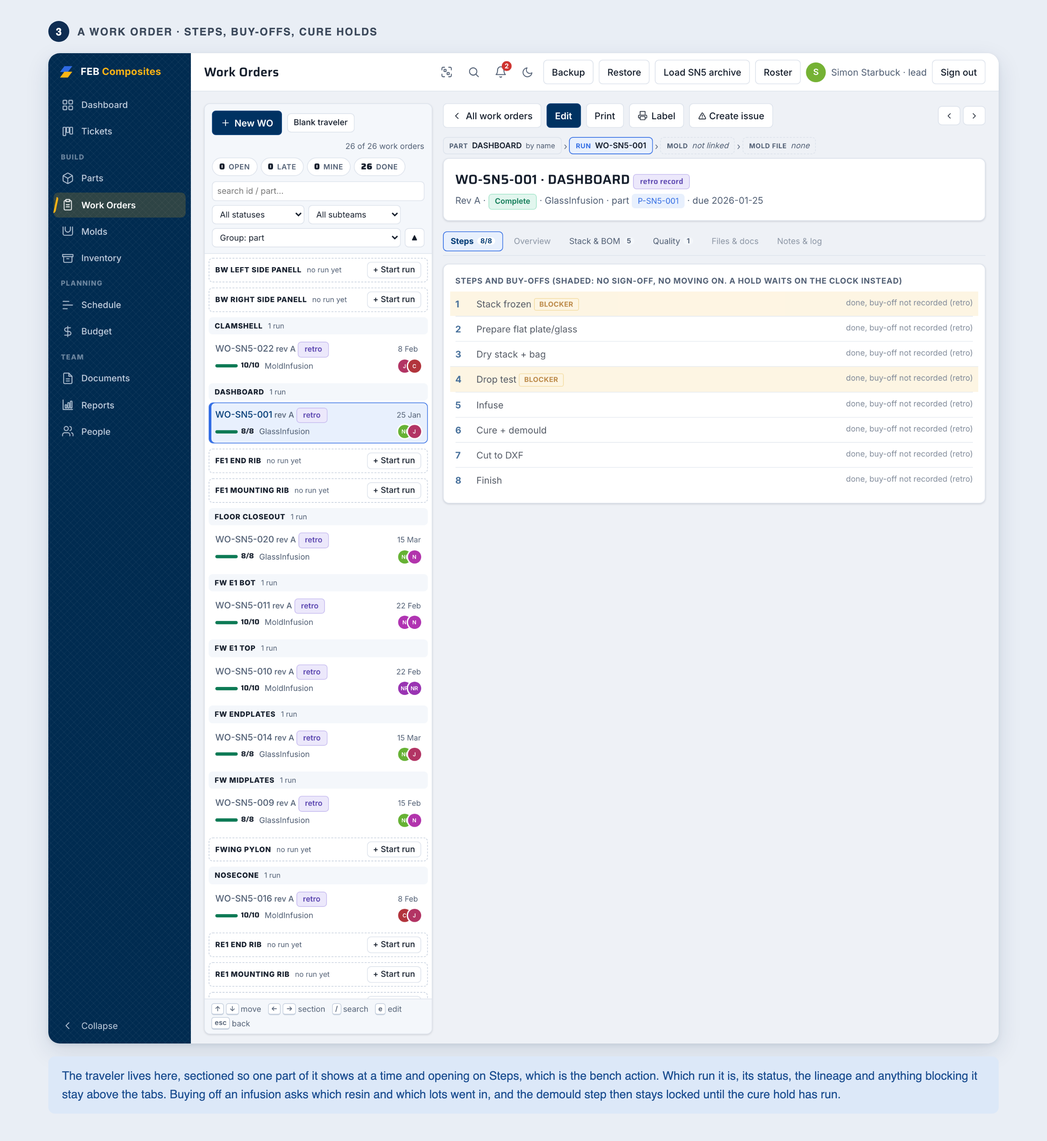
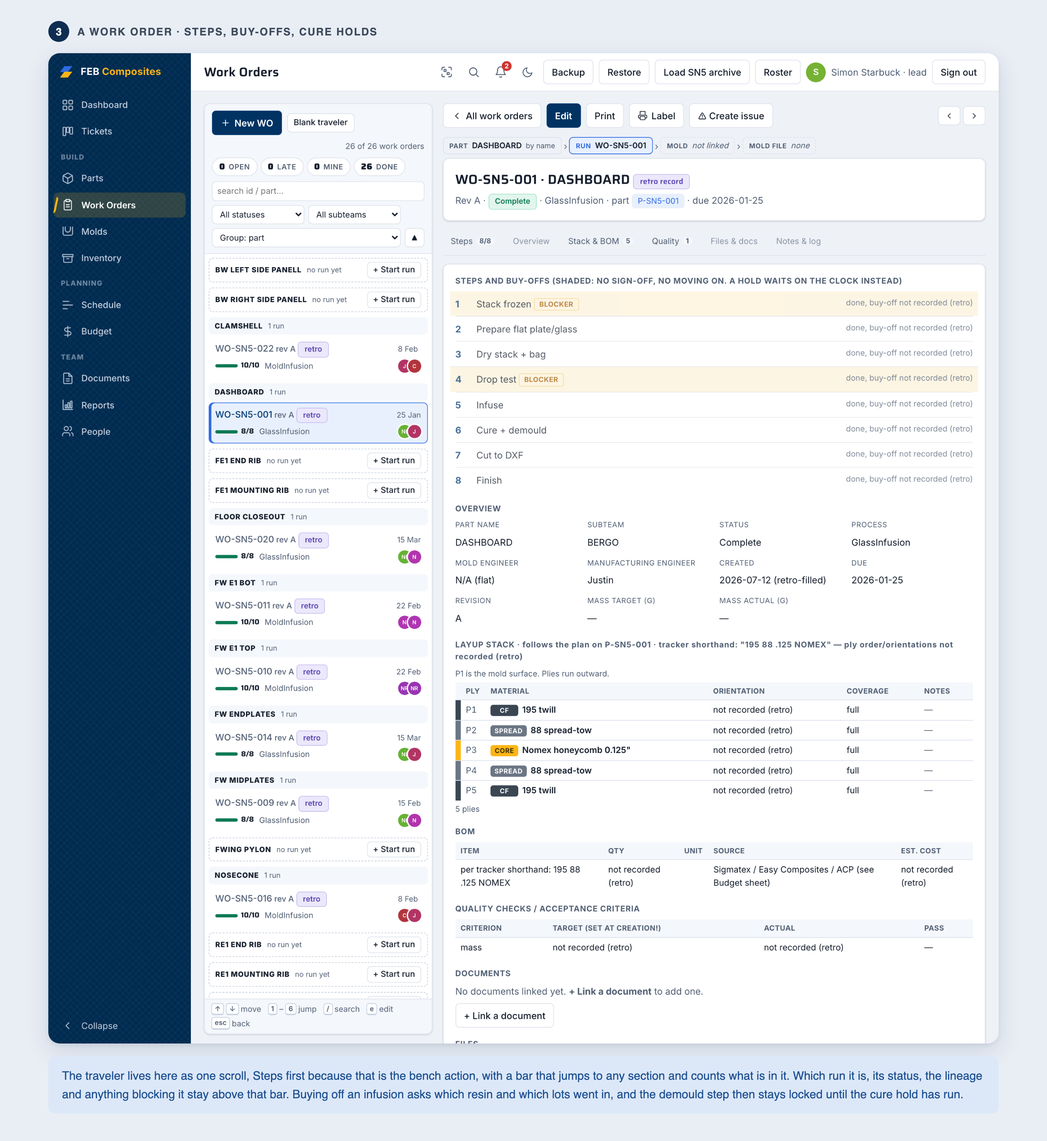
Put the whole work order back in one scroll; the section bar now jumps
Simon asked for the sectioned pane to go back to being scrollable, "similar
to how it was before". The reason holds up: on a traveler you read across
sections constantly, the layup stack while signing "Stack frozen", the BOM
while checking what actually went in, and a tab makes you leave one to see
the other.

So renderWODetail() renders every WO_SECTIONS body into one card, in order,
Steps first because that is still the bench action. `.secnav` survives as a
JUMP bar rather than a switch, keeping the one thing the tab attempt was
genuinely better at: a count per section and a dot when something in one
needs attention, both readable without going there.

woSec()/setWOSec() and view.woSec are gone, along with the ←/→ section
stepping (with one scroll there is no "current section" to step from). 1-6
now scroll to a section. The keyhint says so.

The bar is buttons calling woJump(), NOT <a href="#wo-stack">. The app keeps
a deep link in the URL hash (syncUrl writes #/WO-SN6-004) and an anchor
overwrites it, so the address bar would stop naming the record you are
reading and a copied link would land on a section instead of the run. The
old jumpbar used anchors and did exactly that. scroll-margin-top on
`#main [id^="wo-"]` already existed and keeps the heading clear of the
topbar and this bar.

ONE REAL BUG THIS EXPOSED

Rendering every section at once made the page scroll sideways at 1440
(document 1489px in a 1440px viewport), and the audit could name no
[…]

diff --git a/03 App/app/workorders.js b/03 App/app/workorders.js
@@ -632,7 +632,7 @@ function renderWOIndex() {
       <div class="plistfade" aria-hidden="true"></div>
     </div>
     <div class="keyhint no-print muted tny"><span><kbd>↑</kbd><kbd>↓</kbd> move</span>${
-      selectedWO() ? "<span><kbd>←</kbd><kbd>→</kbd> section</span>" : ""
+      selectedWO() ? "<span><kbd>1</kbd>–<kbd>6</kbd> jump</span>" : ""
     }<span><kbd>/</kbd> search</span><span><kbd>e</kbd> edit</span><span><kbd>esc</kbd> back</span></div>
   </aside>`;
 }
@@ -726,41 +726,51 @@ function fld(wo, label, key, type) {
    full-width page that was one very long scroll with an anchor jumpbar bolted on
    top; beside a rail it would be the same scroll in three quarters of the width.
 
-   So the pane is sectioned and exactly one section renders at a time. What sits
-   ABOVE them is what you must not be able to lose by being on the wrong tab:
-   which run this is, its status, where it sits in the chain, and anything
-   blocking it.
+   So the pane is ordered rather than paginated: the whole record is ONE scroll,
+   with Steps at the top because that is the bench action, and the bar above it
+   jumps you down to a section instead of swapping which one exists.
 
-   The sections are a table rather than six branches so the nav and the panel
-   cannot disagree about what exists — a tab that renders while its content does
-   not is invisible until somebody clicks it. */
+   This was briefly one-section-at-a-time, and Simon asked for the scroll back.
+   The reason is sound: on a traveler you read across sections constantly (the
+   stack while signing "Stack frozen", the BOM while checking what went in), and
+   a tab makes you leave one to see the other. What the bar keeps from that
+   attempt is the part worth keeping — a count per section, and a dot when
+   something in it needs attention, both visible without going there.
+
+   The sections are a table rather than six inline blocks so the jump bar and
+   the body cannot disagree about what exists or what order it is in. */
 const WO_SECTIONS = [
-  { id: "steps", label: "Steps",
+  { id: "steps", label: "Steps", anchor: "wo-steps",
     badge: w => { const p = woProgress(w); return p.total ? `${p.done}/${p.total}` : ""; },
     warn: w => { const f = woFlags(w); return !!(f.blocked || f.curing); },
     body: (w, E) => woSecSteps(w, E) },
-  { id: "overview", label: "Overview", badge: () => "", body: (w, E) => woSecOverview(w, E) },
-  { id: "stack", label: "Stack & BOM",
+  { id: "overview", label: "Overview", anchor: "wo-overview", badge: () => "", body: (w, E) => woSecOverview(w, E) },
+  { id: "stack", label: "Stack & BOM", anchor: "wo-stack",
     badge: w => String((w.layupStack || []).length || ""),
     body: (w, E) => woSecStack(w, E) },
-  { id: "quality", label: "Quality",
+  { id: "quality", label: "Quality", anchor: "wo-quality",
     badge: w => String((w.qualityChecks || []).length || ""),
     warn: w => (w.qualityChecks || []).some(q => q.pass === false) || undisposedIssuesForWO(w.id).length > 0,
     body: (w, E) => woSecQuality(w, E) },
-  { id: "files", label: "Files & docs",
+  { id: "files", label: "Files & docs", anchor: "wo-docs",
     badge: w => String(((w.docs || []).length + (w.files || []).length) || ""),
     body: (w, E) => woSecFiles(w, E) },
-  { id: "notes", label: "Notes & log",
+  { id: "notes", label: "Notes & log", anchor: "wo-log",
     badge: w => String((w.noteLog || []).length || ""),
     body: (w, E) => woSecNotes(w, E) },
 ];
-/* Validated on the way out, never read raw. render() does
-   `el.innerHTML = tab.render()` with no try/catch, so a view.woSec naming a
-   section that no longer exists would throw inside the render and leave #main
-   blank — the worst failure mode this architecture has. Falling back to Steps
-   costs nothing and cannot fail. */
-function woSec() { return WO_SECTIONS.some(s => s.id === view.woSec) ? view.woSec : "steps"; }
-function setWOSec(id) { view = { ...view, woSec: id }; render(); }
+/* Scroll, rather than an <a href="#wo-steps">. The app keeps a deep link in the
+   URL hash (syncUrl writes #/WO-SN6-004), and an anchor would overwrite it with
+   #wo-steps — so the address bar would stop naming the record you are reading
+   and a copied link would land on the tab instead of the run. The old jumpbar
+   did use anchors and did exactly that.
+
+   scroll-margin-top on #main [id^="wo-"] (index.html) is what keeps the heading
+   clear of the topbar and this bar. */
+function woJump(anchor) {
+  const el = document.getElementById(anchor);
+  if (el && el.scrollIntoView) el.scrollIntoView({ block: "start", behavior: "smooth" });
+}
 
 /* The part this run belongs to, for the header chip and for stackDrift().
    Deliberately the ORIGINAL loose lookup and not woPart()/partOf(): partOf
@@ -778,7 +788,6 @@ function renderWODetail() {
   // dangling reference here throws inside render() and blanks the page.
   if (!wo) { view.mode = "list"; return renderWOOverview(); }
   const E = view.edit;
-  const sec = WO_SECTIONS.find(s => s.id === woSec()) || WO_SECTIONS[0];
   const linkedPart = woDetailPart(wo);
   const undisposed = undisposedIssuesForWO(wo.id);
   const fl = woFlags(wo);
@@ -805,25 +814,24 @@ function renderWODetail() {
     <h2>${esc(wo.id)} · ${esc(wo.partName || "(unnamed)")} ${wo.retro ? '<span class="pill retro">retro record</span>' : ""}</h2>
     <div class="muted">Rev ${esc(wo.revision)} · <span class="pill ${esc(wo.status)}">${esc(wo.status)}</span> · ${esc(wo.processType || "")}${linkedPart ? " · part " + chip("parts", linkedPart.id, linkedPart.id) : ""}${wo.dueDate ? ` · due ${esc(wo.dueDate)}${isWoLate(wo) ? ' <span class="warn">late</span>' : ""}` : ""}${wo.updatedAt ? ` · last saved ${fmtWhen(wo.updatedAt)} by ${esc(wo.updatedBy || "?")}` : ""}</div>
     ${undisposed.length ? `<div class="gate blocked"><span class="gi">✕</span><div><b>Can't complete this work order</b> — ${undisposed.length} linked issue${undisposed.length > 1 ? "s" : ""} (${undisposed.map(i => chip("projects", i.id, i.id)).join(", ")}) isn't disposed yet. You don't have to resolve ${undisposed.length > 1 ? "them" : "it"} right now, but ${undisposed.length > 1 ? "they need" : "it needs"} a resolution method before this WO can close.</div></div>` : ""}
-    ${fl.blocked ? `<p class="gate blocked"><span class="gi">✕</span><span>Blocked by an unsigned blocker: <b>${esc(stripCS(fl.blocked.title))}</b>. <button class="link no-print" onclick="setWOSec('steps')">Go to steps</button></span></p>` : ""}
-    ${fl.curing ? `<p class="gate"><span class="gi">⚠</span><span>Curing until <b>${esc(fl.curing.readyAt)}</b>${fl.curing.resin ? ` · ${esc(fl.curing.resin.label)}` : ""}. <button class="link no-print" onclick="setWOSec('steps')">Go to steps</button></span></p>` : ""}
+    ${fl.blocked ? `<p class="gate blocked"><span class="gi">✕</span><span>Blocked by an unsigned blocker: <b>${esc(stripCS(fl.blocked.title))}</b>. <button class="link no-print" onclick="woJump('wo-steps')">Go to steps</button></span></p>` : ""}
+    ${fl.curing ? `<p class="gate"><span class="gi">⚠</span><span>Curing until <b>${esc(fl.curing.readyAt)}</b>${fl.curing.resin ? ` · ${esc(fl.curing.resin.label)}` : ""}. <button class="link no-print" onclick="woJump('wo-steps')">Go to steps</button></span></p>` : ""}
     ${E ? `<div class="editnote no-print">${icon("edit", 14)} Editing — every change saves as you make it.</div>` : ""}
   </div>
-  ${/* Replaces the anchor jumpbar. The <h3 id="wo-*"> anchors stay on the
-        headings inside each section: they cost nothing and keep any external
-        link working. */""}
-  <nav class="secnav no-print" role="tablist" aria-label="Work order sections">
+  ${/* A jump bar, not a switch: every section below is rendered, this scrolls
+        to one. Carries the count and the attention dot so you can see there are
+        five plies, or that a quality check failed, without going there. */""}
+  <nav class="secnav no-print" aria-label="Jump to a section of this work order">
     ${WO_SECTIONS.map((s, i) => {
-      const on = s.id === sec.id;
       const n = s.badge ? s.badge(wo) : "";
       const warn = s.warn && s.warn(wo);
-      return `<button type="button" class="secnav-btn ${on ? "on" : ""} ${n ? "" : "empty"} ${warn ? "warn" : ""}"
-        role="tab" id="wosec-${esc(s.id)}" aria-selected="${on}" title="${esc(s.label)} (${i + 1})"
-        onclick="setWOSec('${esc(s.id)}')">${esc(s.label)}${n ? `<span class="secnav-n">${esc(n)}</span>` : ""}${warn ? '<span class="secnav-dot" aria-hidden="true"></span>' : ""}</button>`;
+      return `<button type="button" class="secnav-btn ${n ? "" : "empty"} ${warn ? "warn" : ""}"
+        id="wosec-${esc(s.id)}" title="${esc(s.label)} (${i + 1})"
+        onclick="woJump('${esc(s.anchor)}')">${esc(s.label)}${n ? `<span class="secnav-n">${esc(n)}</span>` : ""}${warn ? '<span class="secnav-dot" aria-hidden="true"></span>' : ""}</button>`;
     }).join("")}
   </nav>
-  <div class="card wosec" id="wosec-panel" role="tabpanel" aria-labelledby="wosec-${esc(sec.id)}">
-    ${sec.body(wo, E)}
+  <div class="card wosec">
+    ${WO_SECTIONS.map(s => s.body(wo, E)).join("")}
   </div>
   </section>`;
 }
@@ -1528,20 +1536,14 @@ function woKeydown(e) {
     return "search";
   }
   if (k === "e" && view.mode === "detail") { view.edit = !view.edit; render(); return "edit"; }
-  /* Sections are ←/→ (and [ / ]) plus 1-6 to jump. Digits are free here in a
-     way they are not on Parts, which spends 1/2/3 advancing stages: a work
-     order has no stage enum to advance. Gated on an open record so they do not
-     swallow horizontal scrolling on the overview pane. */
-  if (view.mode === "detail" && (k === "ArrowLeft" || k === "ArrowRight" || k === "[" || k === "]")) {
-    if (e.preventDefault) e.preventDefault();
-    const d = (k === "ArrowRight" || k === "]") ? 1 : -1;
-    const i = WO_SECTIONS.findIndex(s => s.id === woSec());
-    setWOSec(WO_SECTIONS[Math.min(WO_SECTIONS.length - 1, Math.max(0, i + d))].id);
-    return "section";
-  }
+  /* 1-6 scroll to a section of the open record. Digits are free here in a way
+     they are not on Parts, which spends 1/2/3 advancing stages: a work order
+     has no stage enum to advance. There is no ←/→ any more, because with the
+     whole record in one scroll there is no "current section" for them to step
+     from — that was a switch, and this is a jump. */
   if (view.mode === "detail" && /^[1-6]$/.test(k) && WO_SECTIONS[+k - 1]) {
     if (e.preventDefault) e.preventDefault();
-    setWOSec(WO_SECTIONS[+k - 1].id);
+    woJump(WO_SECTIONS[+k - 1].anchor);
     return "section";
   }
   return null;

diff --git a/03 App/app/index.html b/03 App/app/index.html
@@ -389,7 +389,15 @@
 
   table.sub { width: 100%; border-collapse: collapse; margin: 4px 0; font-size: 13px; }
   table.sub th { text-align: left; background: var(--surface-2); padding: 5px 8px; font-size: 11px; color: var(--muted); text-transform: uppercase; letter-spacing: .03em; }
-  table.sub td { padding: 5px 8px; border-top: 1px solid var(--line); vertical-align: top; }
+  /* `overflow-wrap: anywhere` because a cell's contents decide the table's
+     minimum width, and these cells hold things with no break opportunity in
+     them: a bare 120-character Drive URL in a BOM source, an
+     underscore-joined CAD filename in a quality check's actual. Without it one
+     such string sets the min-content width of the whole table, which the work
+     order's pane then cannot shrink below, and the PAGE scrolls sideways —
+     measured at 1489px inside 1440px. It only affects strings that had no
+     other way to wrap. */
+  table.sub td { padding: 5px 8px; border-top: 1px solid var(--line); vertical-align: top; overflow-wrap: anywhere; }
   table.sub input, table.sub select { width: 100%; font: inherit; border: 1px solid var(--line); border-radius: 3px; padding: 3px 6px; }
 
   /* ---- projects board ----
@@ -1230,21 +1238,22 @@
   .pgrouphd.norows { border: 1px dashed var(--border-2); background: none; }
   .pgrouphd .pg-start { margin-left: auto; padding: 2px 8px; }
 
-  /* The section tabs. Geometry borrowed from .jumpbar (which Parts still uses),
-     but these are buttons with state rather than anchors: one section renders
-     at a time, so this is the only thing saying which. */
+  /* The section jump bar. Geometry borrowed from .jumpbar (which Parts still
+     uses), but these are buttons rather than anchors, because an <a href="#…">
+     would overwrite the deep link this app keeps in the URL hash. They scroll;
+     they do not switch. What they add over the old jumpbar is a count per
+     section and a dot when something in one needs attention. */
   .secnav { display: flex; gap: 4px; flex-wrap: wrap; align-items: center; margin: 0 0 12px;
     position: sticky; top: var(--topbar-h); z-index: 4; background: var(--canvas); padding: 6px 0; border-bottom: 1px solid var(--line); }
   .secnav-btn { display: inline-flex; align-items: center; gap: 5px; font: inherit; font-size: 12.5px; line-height: 1.1;
     min-height: 30px; padding: 5px 11px; border-radius: var(--radius); border: 1px solid transparent; background: none;
     color: var(--muted); cursor: pointer; transition: background var(--t-fast) var(--ease), border-color var(--t-fast) var(--ease); }
   .secnav-btn:hover { background: var(--hover); color: var(--ink); border-color: var(--line); }
-  .secnav-btn.on { background: var(--accent-soft); border-color: var(--accent); color: var(--brand-ink); font-weight: 700; }
-  /* Empty sections stay visible and muted. A hidden tab is a section nobody can
-     find in order to fill it in — which is the bug, not the tidiness. */
+  /* A section with nothing in it is still listed, muted. Dropping it would mean
+     the bar changes shape per record, and an empty section is the one you most
+     need to be able to find in order to fill it in. */
   .secnav-btn.empty { opacity: .62; }
   .secnav-n { font-size: 10.5px; font-weight: 700; padding: 0 5px; border-radius: 999px; background: var(--surface-2); color: var(--muted); }
-  .secnav-btn.on .secnav-n { background: var(--card); color: var(--brand-ink); }
   .secnav-dot { width: 7px; height: 7px; border-radius: 50%; background: var(--amber); }
   .secnav-btn.warn .secnav-dot { background: var(--bad); }
   .wosec { min-width: 0; }

diff --git a/03 App/app/core.js b/03 App/app/core.js
@@ -1456,7 +1456,7 @@ function setTab(id) {
   // and friends are NOT reset here, and a "late only" toggle left on in Parts
   // would otherwise silently filter a different tab's rail.
   view = { ...view, tab: id, mode: "list", id: null, edit: false, q: "", fStatus: "", fSub: "", sortKey: null, sortDir: null, tlArchive: false, tlPast: false,
-    woSec: null, woOpen: false, woLate: false, woMine: false, woDone: false };
+    woOpen: false, woLate: false, woMine: false, woDone: false };
   closeDrawer();
   render(); syncUrl();
 }

diff --git a/SESSION-STATE.md b/SESSION-STATE.md
@@ -9,8 +9,9 @@ questions. Not a transcript.
 
 ---
 
-Last updated: 2026-08-06
-Status: **Work Orders became a master-detail tab (2026-08-06).** Branch
+Last updated: 2026-08-06 (later)
+Status: **Work Orders became a master-detail tab, and the pane is ONE SCROLL
+(2026-08-06).** Branch
 `mold-drawing-revamp`. All suites green: test_app 377 (was 362), appui 1246
 (was 1244), detailui 816 (was 781), designsystem 23, safearea 30, plus
 print_mobile 14, labels 32, route 38, scan 50, q_landing 32, sanitize 55,
@@ -20,39 +21,49 @@ Simon asked for the Work Orders tab to feel like the rest of Build, and chose,
 from options: WO stays its own tab; the rail gets a group/sort/filter control
 defaulting to grouped-by-part; parts with zero runs appear with a "+ Start run"
 row; rail rows show progress through steps; deep links land with the rail
-visible and scrolled; the pane gets in-pane SECTION TABS opening on Steps, and
-the section persists as you walk between runs; identity, the lineage bar and
-blocking warnings stay above the tabs (the toolbar does not).
+visible and scrolled; identity, the lineage bar and blocking warnings stay
+above the section bar (the toolbar does not).
+
+The pane was built as in-pane SECTION TABS first, and Simon asked for the
+scroll back the same day: on a traveler you read across sections constantly
+(the stack while signing "Stack frozen", the BOM while checking what went in),
+and a tab makes you leave one to see the other. So every section renders, in
+one card, Steps first, and `.secnav` became a JUMP bar. What survived from the
+tab attempt is the part worth keeping: a count per section and a dot when one
+needs attention, both readable without going there.
 
 What landed: `renderWOList()` and its flat seven-column table are gone.
 `renderWorkOrders()` returns `.mdsplit` + `renderWOIndex()` + (detail or
 `renderWOOverview()`), reusing Parts' rail markup wholesale so the ≤900
 collapse and the print rule apply without new CSS. `renderWODetail()` is now
-toolbar + lineage + `.wohead` + `.secnav` + one `WO_SECTIONS` body; the six
-bodies are the old markup moved verbatim. New pure helpers `woProgress`,
-`woFlags`, `isWoLate` sit beside `stepState`. `woKeydown` mirrors
-`partsKeydown` and adds ←/→ and 1-6 for sections.
+toolbar + lineage + `.wohead` + `.secnav` + every `WO_SECTIONS` body joined;
+the six bodies are the old markup moved verbatim. New pure helpers
+`woProgress`, `woFlags`, `isWoLate` sit beside `stepState`. `woKeydown` mirrors
+`partsKeydown` and adds 1-6 to jump to a section.
 
 Decisions worth keeping:
 - **This rail does NOT hide finished records, unlike Parts.** A part drops off
   once it is made; a work order is a traveler you also read back, and every one
   of the 26 SN5 records is Complete, and a done-hiding default landed on an empty
   rail and read as a broken tab. Open/done are one chip each. There is a test.
-- **Cure holds show an ABSOLUTE ready time everywhere except the Steps
-  section.** `syncHoldTick` arms its 60 s re-render on `#main .step .gate`, so
-  with Steps behind a tab it idles elsewhere, which is correct. Broadening
-  that selector to cover the header banner would re-render every 60 s while you
-  type in Notes. dashboard.js:162 made the same call for the same reason.
-  Invisible coupling, so it has its own test.
-- **`woSec()` validates on the way out.** render() does
-  `el.innerHTML = tab.render()` with no try/catch, so a stale `view.woSec` would
-  throw and leave #main blank. Falling back to Steps cannot fail. Tested.
+- **The header states a cure hold as an ABSOLUTE ready time; only the step's
+  own banner gets a countdown.** `syncHoldTick` arms its 60 s re-render on
+  `#main .step .gate`, which keeps the step banner honest. The header is always
+  on screen and deliberately does NOT get a countdown, or it would be the one
+  thing on the page nothing refreshes. dashboard.js:162 made the same call for
+  the same reason. Tested.
+- **The jump bar is buttons, not `<a href="#wo-stack">`.** The URL hash carries
+  the deep link to the record (syncUrl writes `#/WO-SN6-004`), and an anchor
+  overwrites it, so the address bar stops naming what you are reading and a
+  copied link lands on a section instead of the run. The OLD jumpbar did use
+  anchors and did exactly that. `woJump()` scrolls instead; the
+  `scroll-margin-top` rule on `#main [id^="wo-"]` clears the sticky bars.
 - **Synthetic "no run yet" group headers are NOT in `woIndexRows()`.** That
   array is what j/k walks; a header in it would set view.id to a part id and
   silently drop the pane to the overview. Tested both ways.
-- **Steps has to stay the default section.** test_detailui's `wo-detail` and
-  `wo-detail-edit` assert the page contains "inHg", which only appears in step
-  titles, and five test_app cases grep step markup.
+- **Steps leads the scroll.** Partly the bench argument, partly that
+  test_detailui's `wo-detail` and `wo-detail-edit` assert the page contains
+  "inHg", which only appears in step titles.
 - **Filters use woOpen/woLate/woMine/woDone, not Parts' fLate/fMine/fDone**,
   because setTab() clears the former and not the latter. A toggle left on in
   Parts would otherwise filter a different tab's rail.
@@ -77,6 +88,13 @@ Traps hit on the way:
   opened` as the real check.
 - The clickable part name in a group header measured 14px and failed the
   coarse-pointer tap-target audit.
+- **Rendering every section at once made the page scroll sideways at 1440**
+  (1489px in 1440px), and the audit named no element because the culprit was a
+  table's own minimum width. `table.sub td` had no `overflow-wrap`, so a bare
+  120-character Drive URL in a BOM source, and an underscore-joined CAD
+  filename in a quality actual, each set the min-content width of their table.
+  Fixed on `table.sub td` for every tab. It had been invisible only because
+  those two tables were never on screen at 1440 in a populated fixture.
 
 Previous status follows.
 

diff --git a/README.md b/README.md
@@ -54,7 +54,7 @@ up top, then Build, Planning, and Team):
 
 - **Dashboard:** the glance board and the page you land on: a hero band (assigned to you, blocked, late, the money) over five compact modules: the deadline list, the season bars for parts and molds, the booked stations, shop status with severity dots, and new activity. Read-only; fits one projected screen; every element links into the tab it came from.
 - **Tickets:** a jira-style tracker for everything that is not a part: R&D, process fixes, bugs, outreach. Board or list, assignees, watchers, sub-tickets, rich-text comments with photos.
-- **Work Orders:** the manufacturing traveler, as a split view like Parts and Molds. The rail indexes every run grouped by the part it builds, so the tab reads as the part → run → mold hierarchy; each row carries how far through its buy-offs it is, and whether it is blocked or curing. Parts nobody has started show up too, with the button that starts one. Group, sort and filter are yours to set. The pane sections a work order into Steps, Overview, Stack & BOM, Quality, Files and Notes, opening on Steps because that is the bench action; what is true of the whole record (which run it is, its status, the lineage, and anything blocking it) stays above the tabs. Layup stack, BOM, step buy-offs stamped with who signed, blocker steps, and enforced cure holds backed by the datasheets in `resins.js`. Prints to a hand-fillable sheet that is always exactly two pages.
+- **Work Orders:** the manufacturing traveler, as a split view like Parts and Molds. The rail indexes every run grouped by the part it builds, so the tab reads as the part → run → mold hierarchy; each row carries how far through its buy-offs it is, and whether it is blocked or curing. Parts nobody has started show up too, with the button that starts one. Group, sort and filter are yours to set. The pane keeps the whole record in one scroll, Steps first because that is the bench action, with a bar above it that jumps to Overview, Stack & BOM, Quality, Files or Notes and carries a count per section plus a dot when something in one needs attention. What is true of the whole record (which run it is, its status, the lineage, and anything blocking it) stays above that bar. Layup stack, BOM, step buy-offs stamped with who signed, blocker steps, and enforced cure holds backed by the datasheets in `resins.js`. Prints to a hand-fillable sheet that is always exactly two pages.
 - **Parts:** the season tracker as a split view: every part down the left, the selected one beside it, each stage a row of steps you click. Arrow keys walk the list; `1`/`2`/`3` advance the stages.
 - **Molds:** molds and tooling boards as one split view: the rail indexes both, the pane shows the selected record. A mold carries stage, home location, sealing record and parts pulled, plus its mold file — the stack plan it is cut from, with the plans it superseded still openable and marked as such. One "+ Mold" button covers planning from an STL, from typed dimensions, or recording a mold that has no CAD yet. Boards are listed one row per size, since a board is its length, width, thickness and density; the individual records, and their printed labels, are one click deeper. The drawing set is a general view (assembled stock with the mold hatched inside it and waterline section contours, plus a mold-only inset), a third-angle three-view, and one placement sheet per board. The planner takes a mold STL, picks boards, splits at the ShopSabre depth limit, prints a numbered cut list, and creates the mold record at "Designed". Blanks are sawn to whole half-inch increments so a person with a tape can cut them, which also puts every cut position on an eighth-inch mark. The cut list opens the board that costs least, scoring both the material spent and the option value destroyed: a big board is the only thing that can hold a big blank, so spending one on small blanks is charged for.
 - **Inventory:** the storage map. One card per shelf, rack and bin, grouped by site, each showing what is on it and what is wrong with it (expired lots, resin and hardener together, flammables outside the rated cabinet, unhoused things). A shelf's page adds records already located, moves things in by scan, receives a whole delivery in one pass, and confirms contents for the monthly stock walk. Test panels, jigs, fabric rolls, resin lots and consumables all live here.

diff --git a/03 App/app/README.md b/03 App/app/README.md
@@ -85,7 +85,7 @@ when they disagree rather than quietly overwriting one.
 
 ### Work Orders
 
-![A work order: the rail grouped by part, and the traveler sectioned beside it](../design/workorder-detail-mockup-20260807.png)
+![A work order: the rail grouped by part, and the whole traveler in one scroll beside it](../design/workorder-detail-mockup-20260807.png)
 
 Work Orders is the manufacturing traveler: layup stack, BOM, step buy-offs
 stamped with who signed them, blocker enforcement, enforced cure holds (the
@@ -100,15 +100,20 @@ the SN5 archive is most of them and is the to-do list for linking them up.
 Parts nobody has started appear too, with the button that starts a run. Group,
 sort and filter are yours to set.
 
-The pane sections one work order into Steps, Overview, Stack & BOM, Quality,
-Files & docs, and Notes & log, showing one at a time. It opens on Steps because
-that is what you came to do; `←`/`→` or `1`-`6` move between sections and the
-one you chose follows you as you walk the rail. What is true of the whole
-record stays above the tabs: which run it is, its status, the lineage bar, and
-anything blocking it, including a cure hold, which is shown there as a clock
-time rather than a countdown (only the Steps section keeps a countdown honest).
-Unlike Parts, this rail does not hide finished runs by default, because reading
-back what was done is half of what a traveler is for.
+The pane is one scroll, ordered Steps, Overview, Stack & BOM, Quality, Files &
+docs, Notes & log. Steps leads because that is what you came to do. A bar above
+it jumps to any section (`1`-`6` from the keyboard) and carries a count per
+section and a dot when something in one wants attention, so you can see there
+are five plies or that a check failed without scrolling to find out. It is
+buttons rather than anchors on purpose: an `href="#wo-stack"` would overwrite
+the deep link the app keeps in the URL hash.
+
+What is true of the whole record stays above that bar: which run it is, its
+status, the lineage bar, and anything blocking it, including a cure hold, which
+is shown there as a clock time rather than a countdown (the step's own banner
+is the one a timer keeps honest). Unlike Parts, this rail does not hide
+finished runs by default, because reading back what was done is half of what a
+traveler is for.
 
 A work order is one run at making a part, so its layup stack is what that run
 **actually laid**, while the part's stack is the **plan**. Editing the plan
